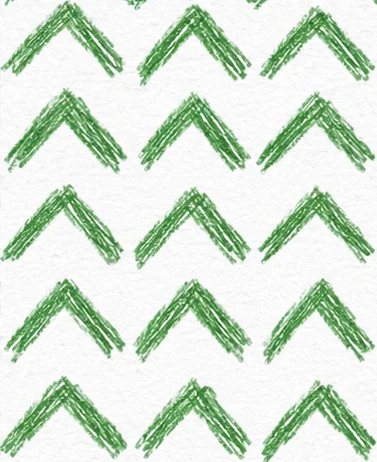
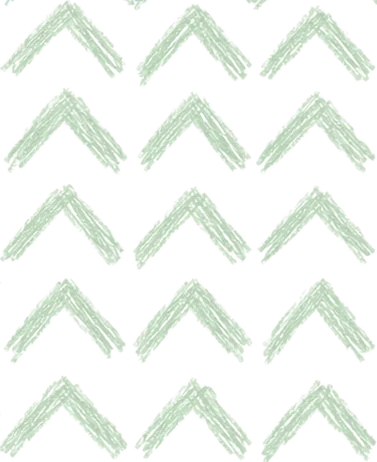
Pencil Putt: dark solid green
Putting surface is now a flat dark green instead of the pencil hatch (turf.webp
still swaps in if one is added). Slope chevrons are cut out of the tile and
lightened so they read on the dark green.

Claude-Session: https://claude.ai/code/session_01TW2c8VB2VRu4Y1qXWB34Un

diff --git a/site/play/pencil-putt.html b/site/play/pencil-putt.html
@@ -684,7 +684,7 @@ function drawDeco(d){
   ctx.restore();
 }
 /* the putting green: a pale green wash with two sets of green coloured-pencil cross-hatching, clipped to the green */
-const GRN={wash:'#dff0d8',h1:'rgba(76,175,80,.62)',h2:'rgba(46,125,50,.42)'};
+const GRN={wash:'#2e7d4f',h1:'rgba(76,175,80,.62)',h2:'rgba(46,125,50,.42)'}; // dark solid green (Mark, Nov 2 2026); h1/h2 only used by the unused hatch
 function greenHatch(x0,y0,x1,y1,sp1,sp2,lw){
   const w=x1-x0,h=y1-y0;ctx.lineCap='round';
   ctx.strokeStyle=GRN.h1;ctx.lineWidth=lw;ctx.beginPath();
@@ -697,12 +697,12 @@ function drawTurf(h,t){
   ctx.save();ctx.translate(2,4);polyPath(h.poly);ctx.fillStyle='rgba(46,46,51,.2)';ctx.fill();ctx.restore();
   polyPath(h.poly);ctx.fillStyle=GRN.wash;ctx.fill();
   ctx.save();polyPath(h.poly);ctx.clip();
-  const tp=pat('turf',110);if(tp){ctx.fillStyle=tp;ctx.fillRect(0,0,WW,WH)}else greenHatch(0,0,WW,WH,5.5,7.5,.9); // turf.webp (Mark's green tile) when present, else code-drawn hatch
+  const tp=pat('turf',110);if(tp){ctx.fillStyle=tp;ctx.fillRect(0,0,WW,WH)} // solid dark green; a turf.webp tile replaces it when present
   // zones
   for(const z of h.force){shapePath(z.s);
     const zk=z.kind==='tide'?'tide':'slope';
     if(ok(zk)){const s=z.s,ang=Math.atan2(z.fy,z.fx),cx=(s.x0+s.x1)/2,cy=(s.y0+s.y1)/2,sz=zk==='tide'?70:80,sp=zk==='tide'?40:14;
-      ctx.save();shapePath(s);ctx.clip();ctx.translate(cx,cy);ctx.rotate(zk==='tide'?ang:ang+Math.PI/2); // chevrons on the slope tile point the way the ball gets pushedctx.translate(zk==='tide'?(t*sp)%sz:0,zk==='tide'?0:(-(t*sp)%sz));if(zk==='slope'){ctx.fillStyle=GRN.wash;ctx.fillRect(-400,-400,800,800);ctx.globalCompositeOperation='multiply'} // slopes are part of the green: pencil chevrons over the green wash
+      ctx.save();shapePath(s);ctx.clip();ctx.translate(cx,cy);ctx.rotate(zk==='tide'?ang:ang+Math.PI/2); // chevrons on the slope tile point the way the ball gets pushedctx.translate(zk==='tide'?(t*sp)%sz:0,zk==='tide'?0:(-(t*sp)%sz));// slope tile is transparent chevrons drawn straight onto the green
       ctx.fillStyle=pat(zk,sz);ctx.fillRect(-400,-400,800,800);ctx.restore();
       ctx.strokeStyle=zk==='tide'?'#2f6fb5':INK;ctx.lineWidth=1.5;ctx.setLineDash([4,4]);shapePath(z.s);ctx.stroke();ctx.setLineDash([]);continue}
     if(z.kind==='tide'){ctx.fillStyle='rgba(47,111,181,.22)';ctx.fill();
@@ -967,8 +967,7 @@ function mini(t){const sv=ctx;ctx=mc;mc.setTransform(1,0,0,1,0,0);mc.clearRect(0
   const P=[[30,40],[140,40],[160,60],[160,100],[140,112],[30,112],[12,95],[12,58]];
   ctx.save();ctx.translate(2,4);polyPath(P);ctx.fillStyle='rgba(46,46,51,.15)';ctx.fill();ctx.restore();
   polyPath(P);ctx.fillStyle=GRN.wash;ctx.fill();
-  ctx.save();polyPath(P);ctx.clip();greenHatch(0,30,180,120,5,7,.8);ctx.restore();
-  ctx.lineWidth=7;ctx.strokeStyle=INK;ctx.lineJoin='round';polyPath(P);ctx.stroke();ctx.lineWidth=4;ctx.strokeStyle='#e4e2d8';polyPath(P);ctx.stroke();
+    ctx.lineWidth=7;ctx.strokeStyle=INK;ctx.lineJoin='round';polyPath(P);ctx.stroke();ctx.lineWidth=4;ctx.strokeStyle='#e4e2d8';polyPath(P);ctx.stroke();
   const fake={cup:[128,78]};drawCup(fake,t);
   const k=(t*.45)%1.6,u=Math.min(1,k/1.1),e=1-(1-u)*(1-u),bx=38+(128-38)*e,by=86+(78-86)*e;
   if(k<1.1)drawBall(bx,by,1);

diff --git a/src/games/pencil-putt.html b/src/games/pencil-putt.html
@@ -645,7 +645,7 @@ function drawDeco(d){
   ctx.restore();
 }
 /* the putting green: a pale green wash with two sets of green coloured-pencil cross-hatching, clipped to the green */
-const GRN={wash:'#dff0d8',h1:'rgba(76,175,80,.62)',h2:'rgba(46,125,50,.42)'};
+const GRN={wash:'#2e7d4f',h1:'rgba(76,175,80,.62)',h2:'rgba(46,125,50,.42)'}; // dark solid green (Mark, Nov 2 2026); h1/h2 only used by the unused hatch
 function greenHatch(x0,y0,x1,y1,sp1,sp2,lw){
   const w=x1-x0,h=y1-y0;ctx.lineCap='round';
   ctx.strokeStyle=GRN.h1;ctx.lineWidth=lw;ctx.beginPath();
@@ -658,12 +658,12 @@ function drawTurf(h,t){
   ctx.save();ctx.translate(2,4);polyPath(h.poly);ctx.fillStyle='rgba(46,46,51,.2)';ctx.fill();ctx.restore();
   polyPath(h.poly);ctx.fillStyle=GRN.wash;ctx.fill();
   ctx.save();polyPath(h.poly);ctx.clip();
-  const tp=pat('turf',110);if(tp){ctx.fillStyle=tp;ctx.fillRect(0,0,WW,WH)}else greenHatch(0,0,WW,WH,5.5,7.5,.9); // turf.webp (Mark's green tile) when present, else code-drawn hatch
+  const tp=pat('turf',110);if(tp){ctx.fillStyle=tp;ctx.fillRect(0,0,WW,WH)} // solid dark green; a turf.webp tile replaces it when present
   // zones
   for(const z of h.force){shapePath(z.s);
     const zk=z.kind==='tide'?'tide':'slope';
     if(ok(zk)){const s=z.s,ang=Math.atan2(z.fy,z.fx),cx=(s.x0+s.x1)/2,cy=(s.y0+s.y1)/2,sz=zk==='tide'?70:80,sp=zk==='tide'?40:14;
-      ctx.save();shapePath(s);ctx.clip();ctx.translate(cx,cy);ctx.rotate(zk==='tide'?ang:ang+Math.PI/2); // chevrons on the slope tile point the way the ball gets pushedctx.translate(zk==='tide'?(t*sp)%sz:0,zk==='tide'?0:(-(t*sp)%sz));if(zk==='slope'){ctx.fillStyle=GRN.wash;ctx.fillRect(-400,-400,800,800);ctx.globalCompositeOperation='multiply'} // slopes are part of the green: pencil chevrons over the green wash
+      ctx.save();shapePath(s);ctx.clip();ctx.translate(cx,cy);ctx.rotate(zk==='tide'?ang:ang+Math.PI/2); // chevrons on the slope tile point the way the ball gets pushedctx.translate(zk==='tide'?(t*sp)%sz:0,zk==='tide'?0:(-(t*sp)%sz));// slope tile is transparent chevrons drawn straight onto the green
       ctx.fillStyle=pat(zk,sz);ctx.fillRect(-400,-400,800,800);ctx.restore();
       ctx.strokeStyle=zk==='tide'?'#2f6fb5':INK;ctx.lineWidth=1.5;ctx.setLineDash([4,4]);shapePath(z.s);ctx.stroke();ctx.setLineDash([]);continue}
     if(z.kind==='tide'){ctx.fillStyle='rgba(47,111,181,.22)';ctx.fill();
@@ -928,8 +928,7 @@ function mini(t){const sv=ctx;ctx=mc;mc.setTransform(1,0,0,1,0,0);mc.clearRect(0
   const P=[[30,40],[140,40],[160,60],[160,100],[140,112],[30,112],[12,95],[12,58]];
   ctx.save();ctx.translate(2,4);polyPath(P);ctx.fillStyle='rgba(46,46,51,.15)';ctx.fill();ctx.restore();
   polyPath(P);ctx.fillStyle=GRN.wash;ctx.fill();
-  ctx.save();polyPath(P);ctx.clip();greenHatch(0,30,180,120,5,7,.8);ctx.restore();
-  ctx.lineWidth=7;ctx.strokeStyle=INK;ctx.lineJoin='round';polyPath(P);ctx.stroke();ctx.lineWidth=4;ctx.strokeStyle='#e4e2d8';polyPath(P);ctx.stroke();
+    ctx.lineWidth=7;ctx.strokeStyle=INK;ctx.lineJoin='round';polyPath(P);ctx.stroke();ctx.lineWidth=4;ctx.strokeStyle='#e4e2d8';polyPath(P);ctx.stroke();
   const fake={cup:[128,78]};drawCup(fake,t);
   const k=(t*.45)%1.6,u=Math.min(1,k/1.1),e=1-(1-u)*(1-u),bx=38+(128-38)*e,by=86+(78-86)*e;
   if(k<1.1)drawBall(bx,by,1);

diff --git a/tools/pencil-putt-slice.py b/tools/pencil-putt-slice.py
@@ -109,6 +109,10 @@ def tiles(path):
         if name in ('sandtrap', 'water'):
             # non-directional scribble: wrap-blend the edges so the repeat is seamless
             tile = wrap_blend(cell.crop((0, 0, min(w+60, lim), min(h+60, lim))), 60)
+        if name == 'slope':
+            tile = knockout(tile, 30)  # chevrons only, drawn over the green
+            a = np.asarray(tile).astype(float); a[...,:3] = a[...,:3]*.35 + 255*.65  # lighten so they read on dark green
+            tile = Image.fromarray(a.astype(np.uint8))
         tile = tile.resize((1024, round(tile.height*1024/tile.width)), Image.LANCZOS) if tile.width > 1024 else tile
         tile.save(os.path.join(OUT, name+'.webp'), quality=88, method=6)
         print(name, (w,h), 'edge diff %.1f/%.1f' % (dw, dh), '->', tile.size)
